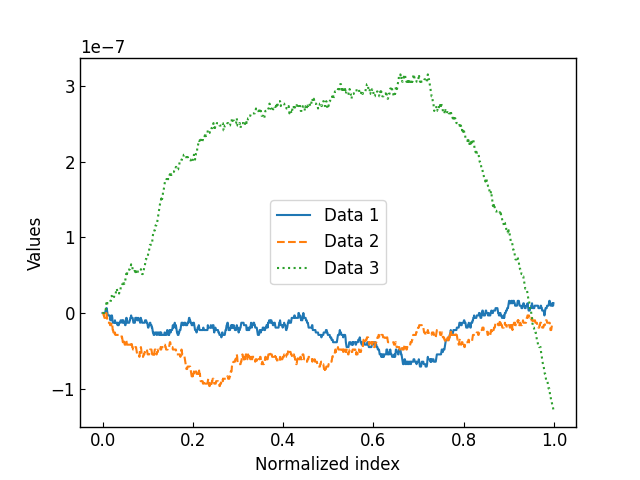
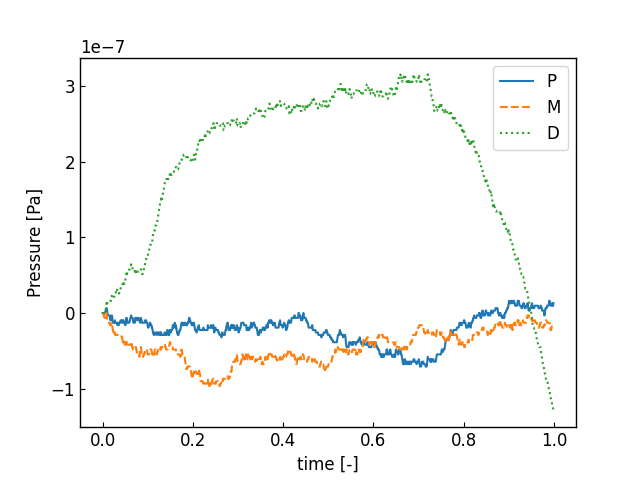
圧力の出力結果画像を修正

diff --git a/visualize.py b/visualize.py
@@ -143,13 +143,13 @@ def visualizePressure(file1, file2, file3, output_file):
     fig, ax = plt.subplots()
 
     # Plot the data
-    ax.plot(x_values, data1, linestyle="-", label="Data 1")
-    ax.plot(x_values, data2, linestyle="--", label="Data 2")
-    ax.plot(x_values, data3, linestyle=":", label="Data 3")
+    ax.plot(x_values, data1, linestyle="-", label="P")
+    ax.plot(x_values, data2, linestyle="--", label="M")
+    ax.plot(x_values, data3, linestyle=":", label="D")
 
     # Set labels and legend
-    ax.set_xlabel("Normalized index")
-    ax.set_ylabel("Values")
+    ax.set_xlabel("time [-]")
+    ax.set_ylabel("Pressure [Pa]")
     ax.legend()
 
     # Save the figure
